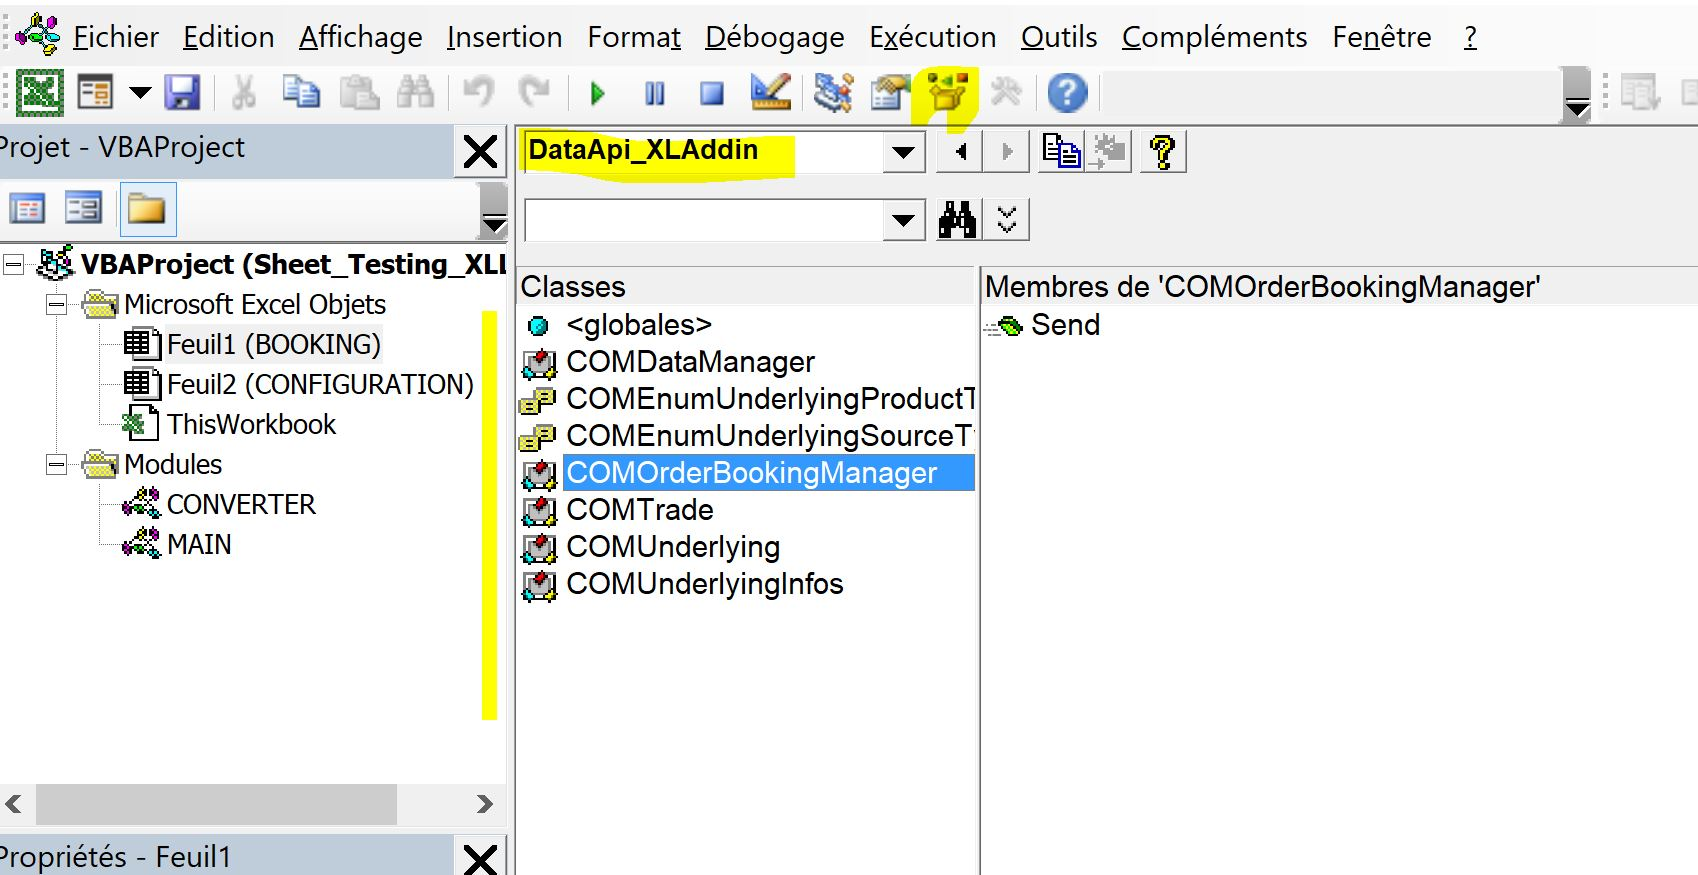
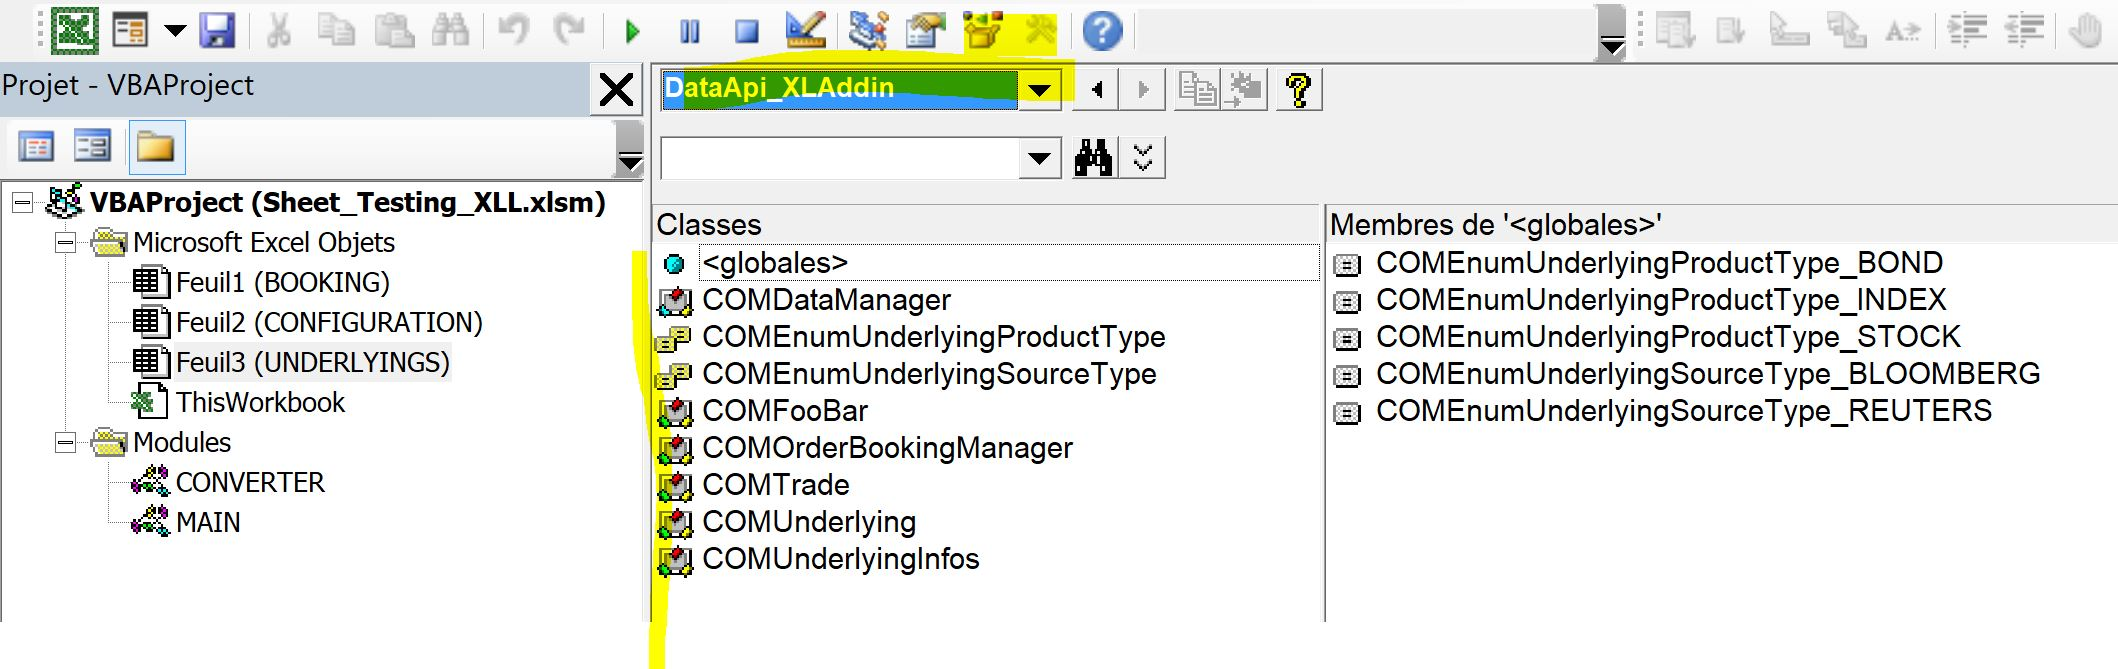
edit readme
edit readme

Changed region(s): [[0.0, 0.0, 1.0, 1.0]]

diff --git a/DataApiAddin/COM/Model/COMFooBar.cs b/DataApiAddin/COM/Model/COMFooBar.cs
@@ -1,0 +1,16 @@
+using System.Runtime.InteropServices;
+
+namespace DataApi.XLAddin.COM.Model
+{
+    [ComVisible(true)]
+    [ClassInterface(ClassInterfaceType.AutoDual)]
+    // In AutoDual, we do not need to declare an interface ICOMFooBar to define what will be explicitely COM Visible. 
+    // However, default methods such as : 
+    // Equals(), GetHashCode(), GetType(), ToString() 
+    // will appeared as COM Visible and available for use in EXCEL VBA.
+    public class COMFooBar
+    {
+        public string Foo { get; set; }
+        public int Bar { get; set; }
+    }
+}

diff --git a/README.md b/README.md
@@ -71,3 +71,10 @@ C:\log
 ```
 ExcelDna-master\ExcelDna-master\Distribution\Samples\ComServer 
 ```
+
+# Additionnal Notes
+
+
+### 1. Define What's Com Visible :
+
+![alt capture6](https://github.com/danmgs/ExcelDna.COM.QuickStart.V2/blob/master/img/screenshot6.JPG)
